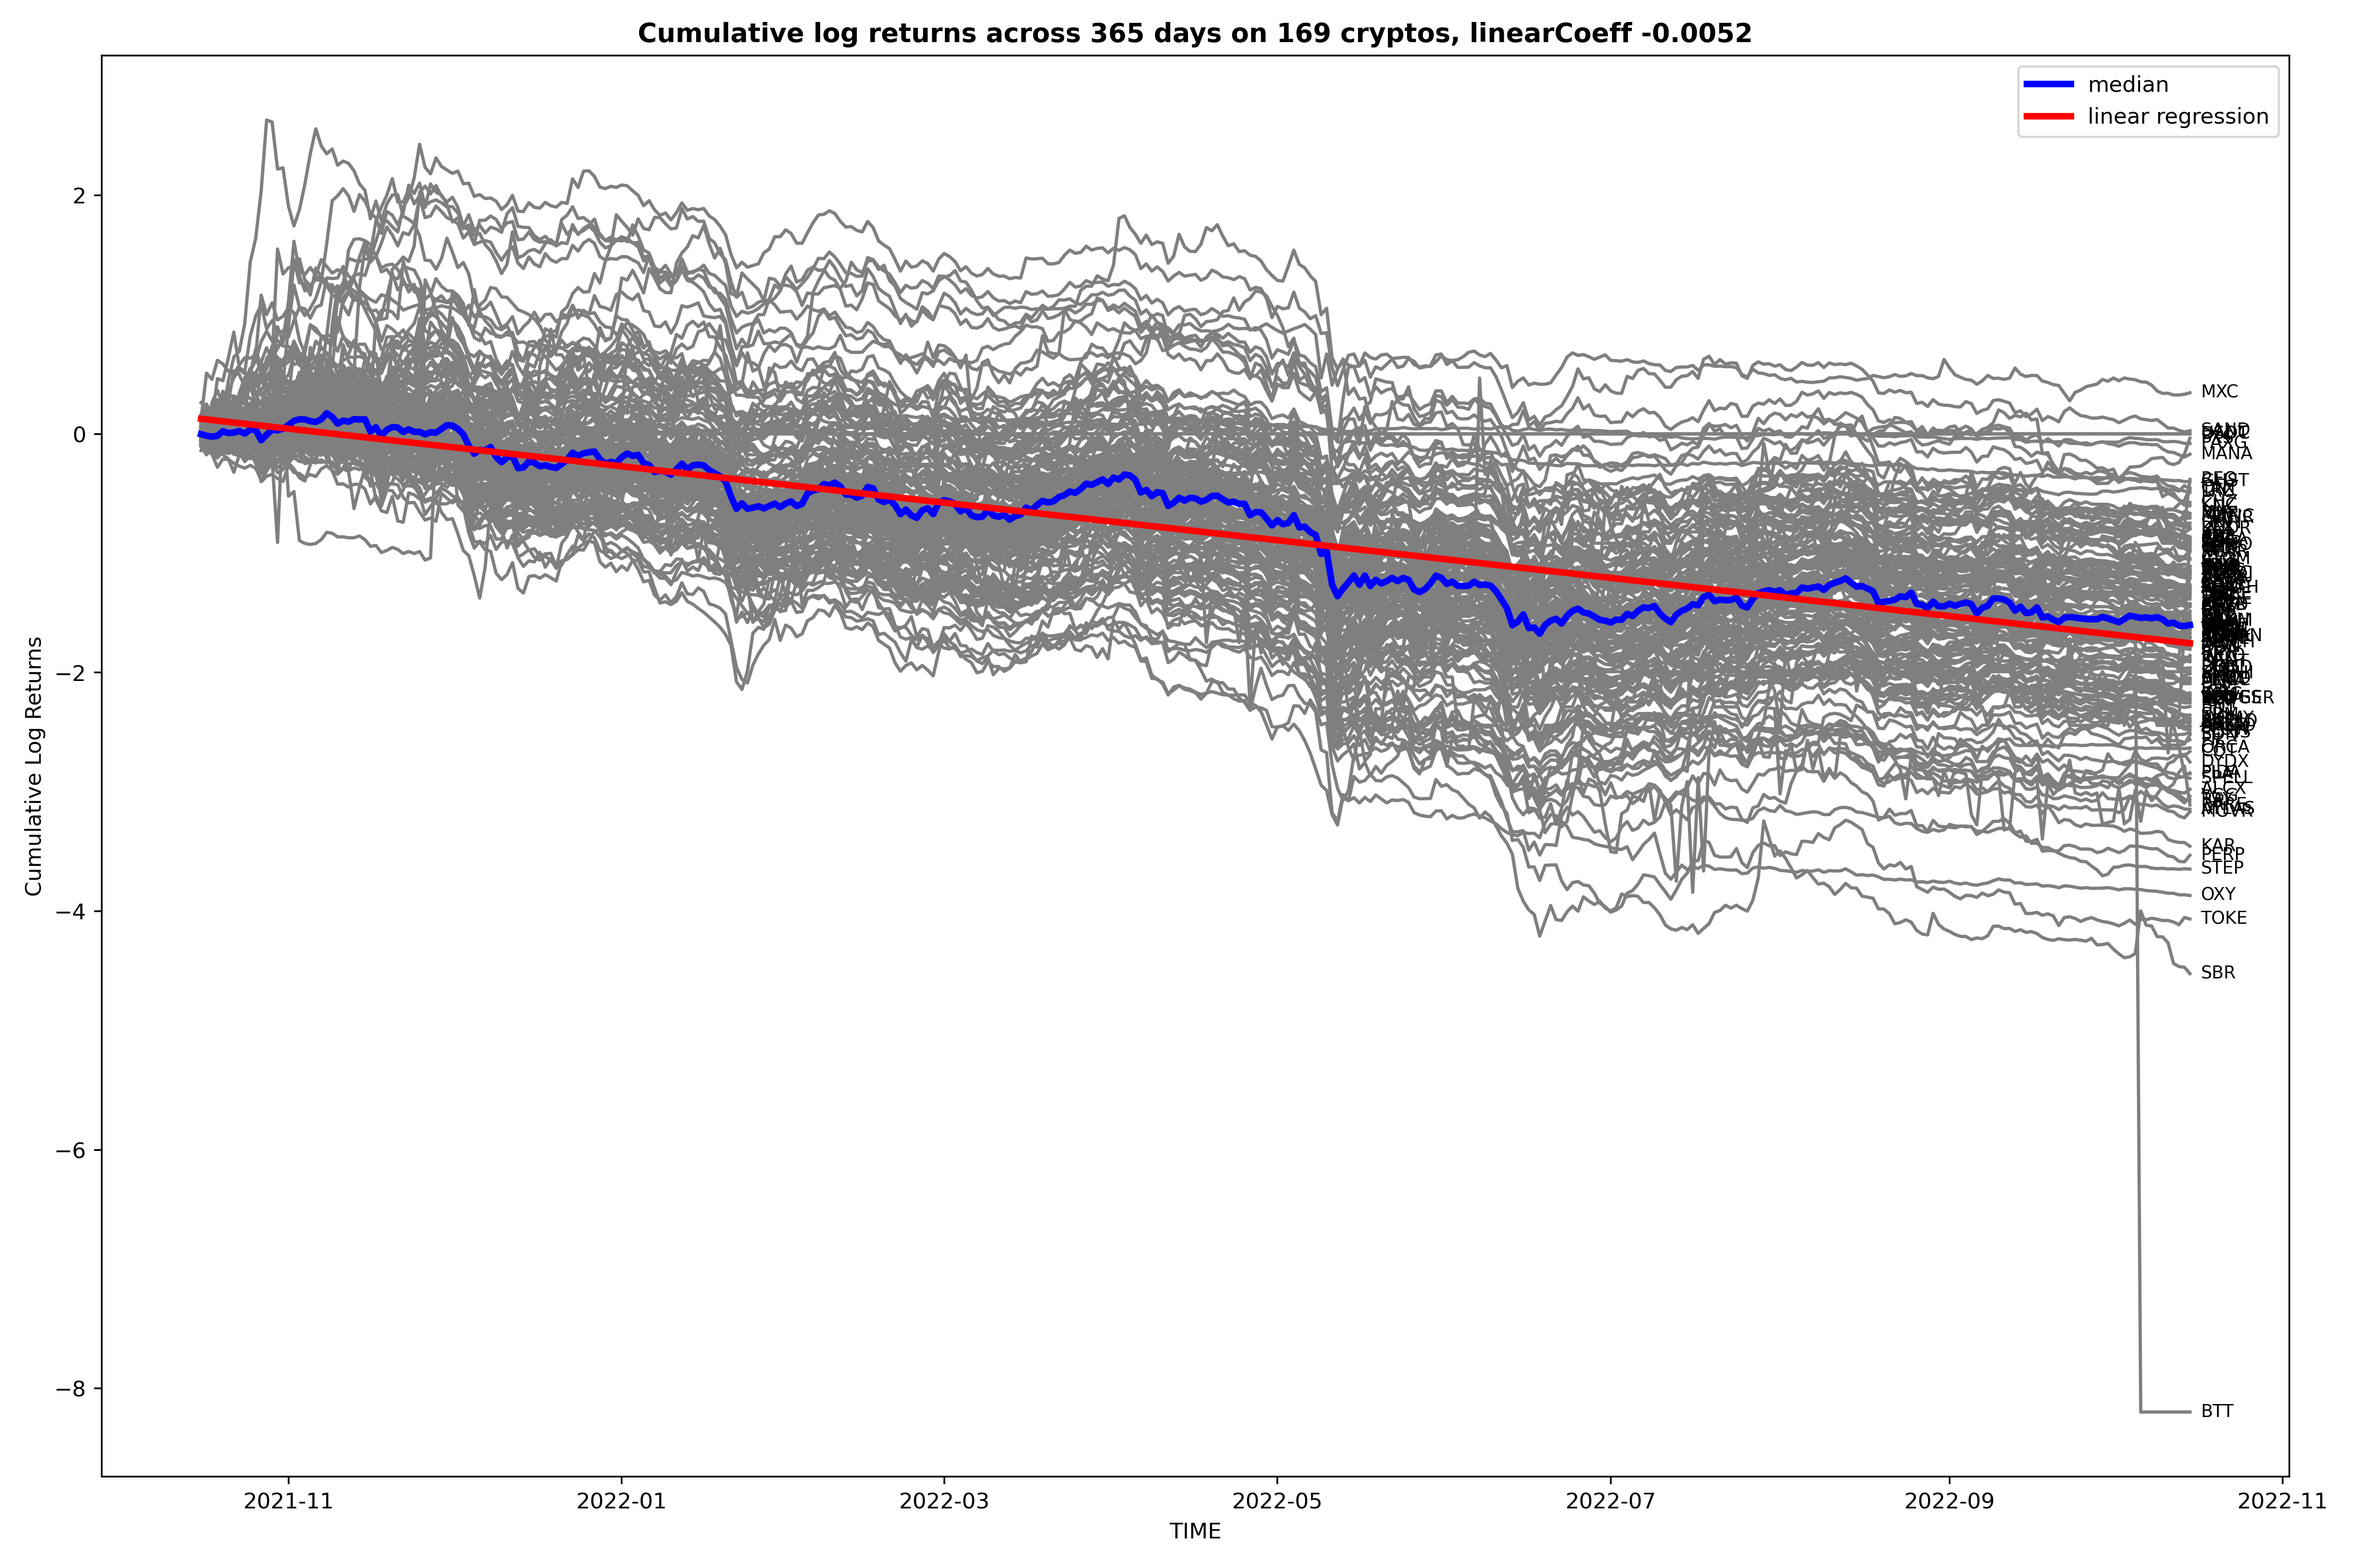
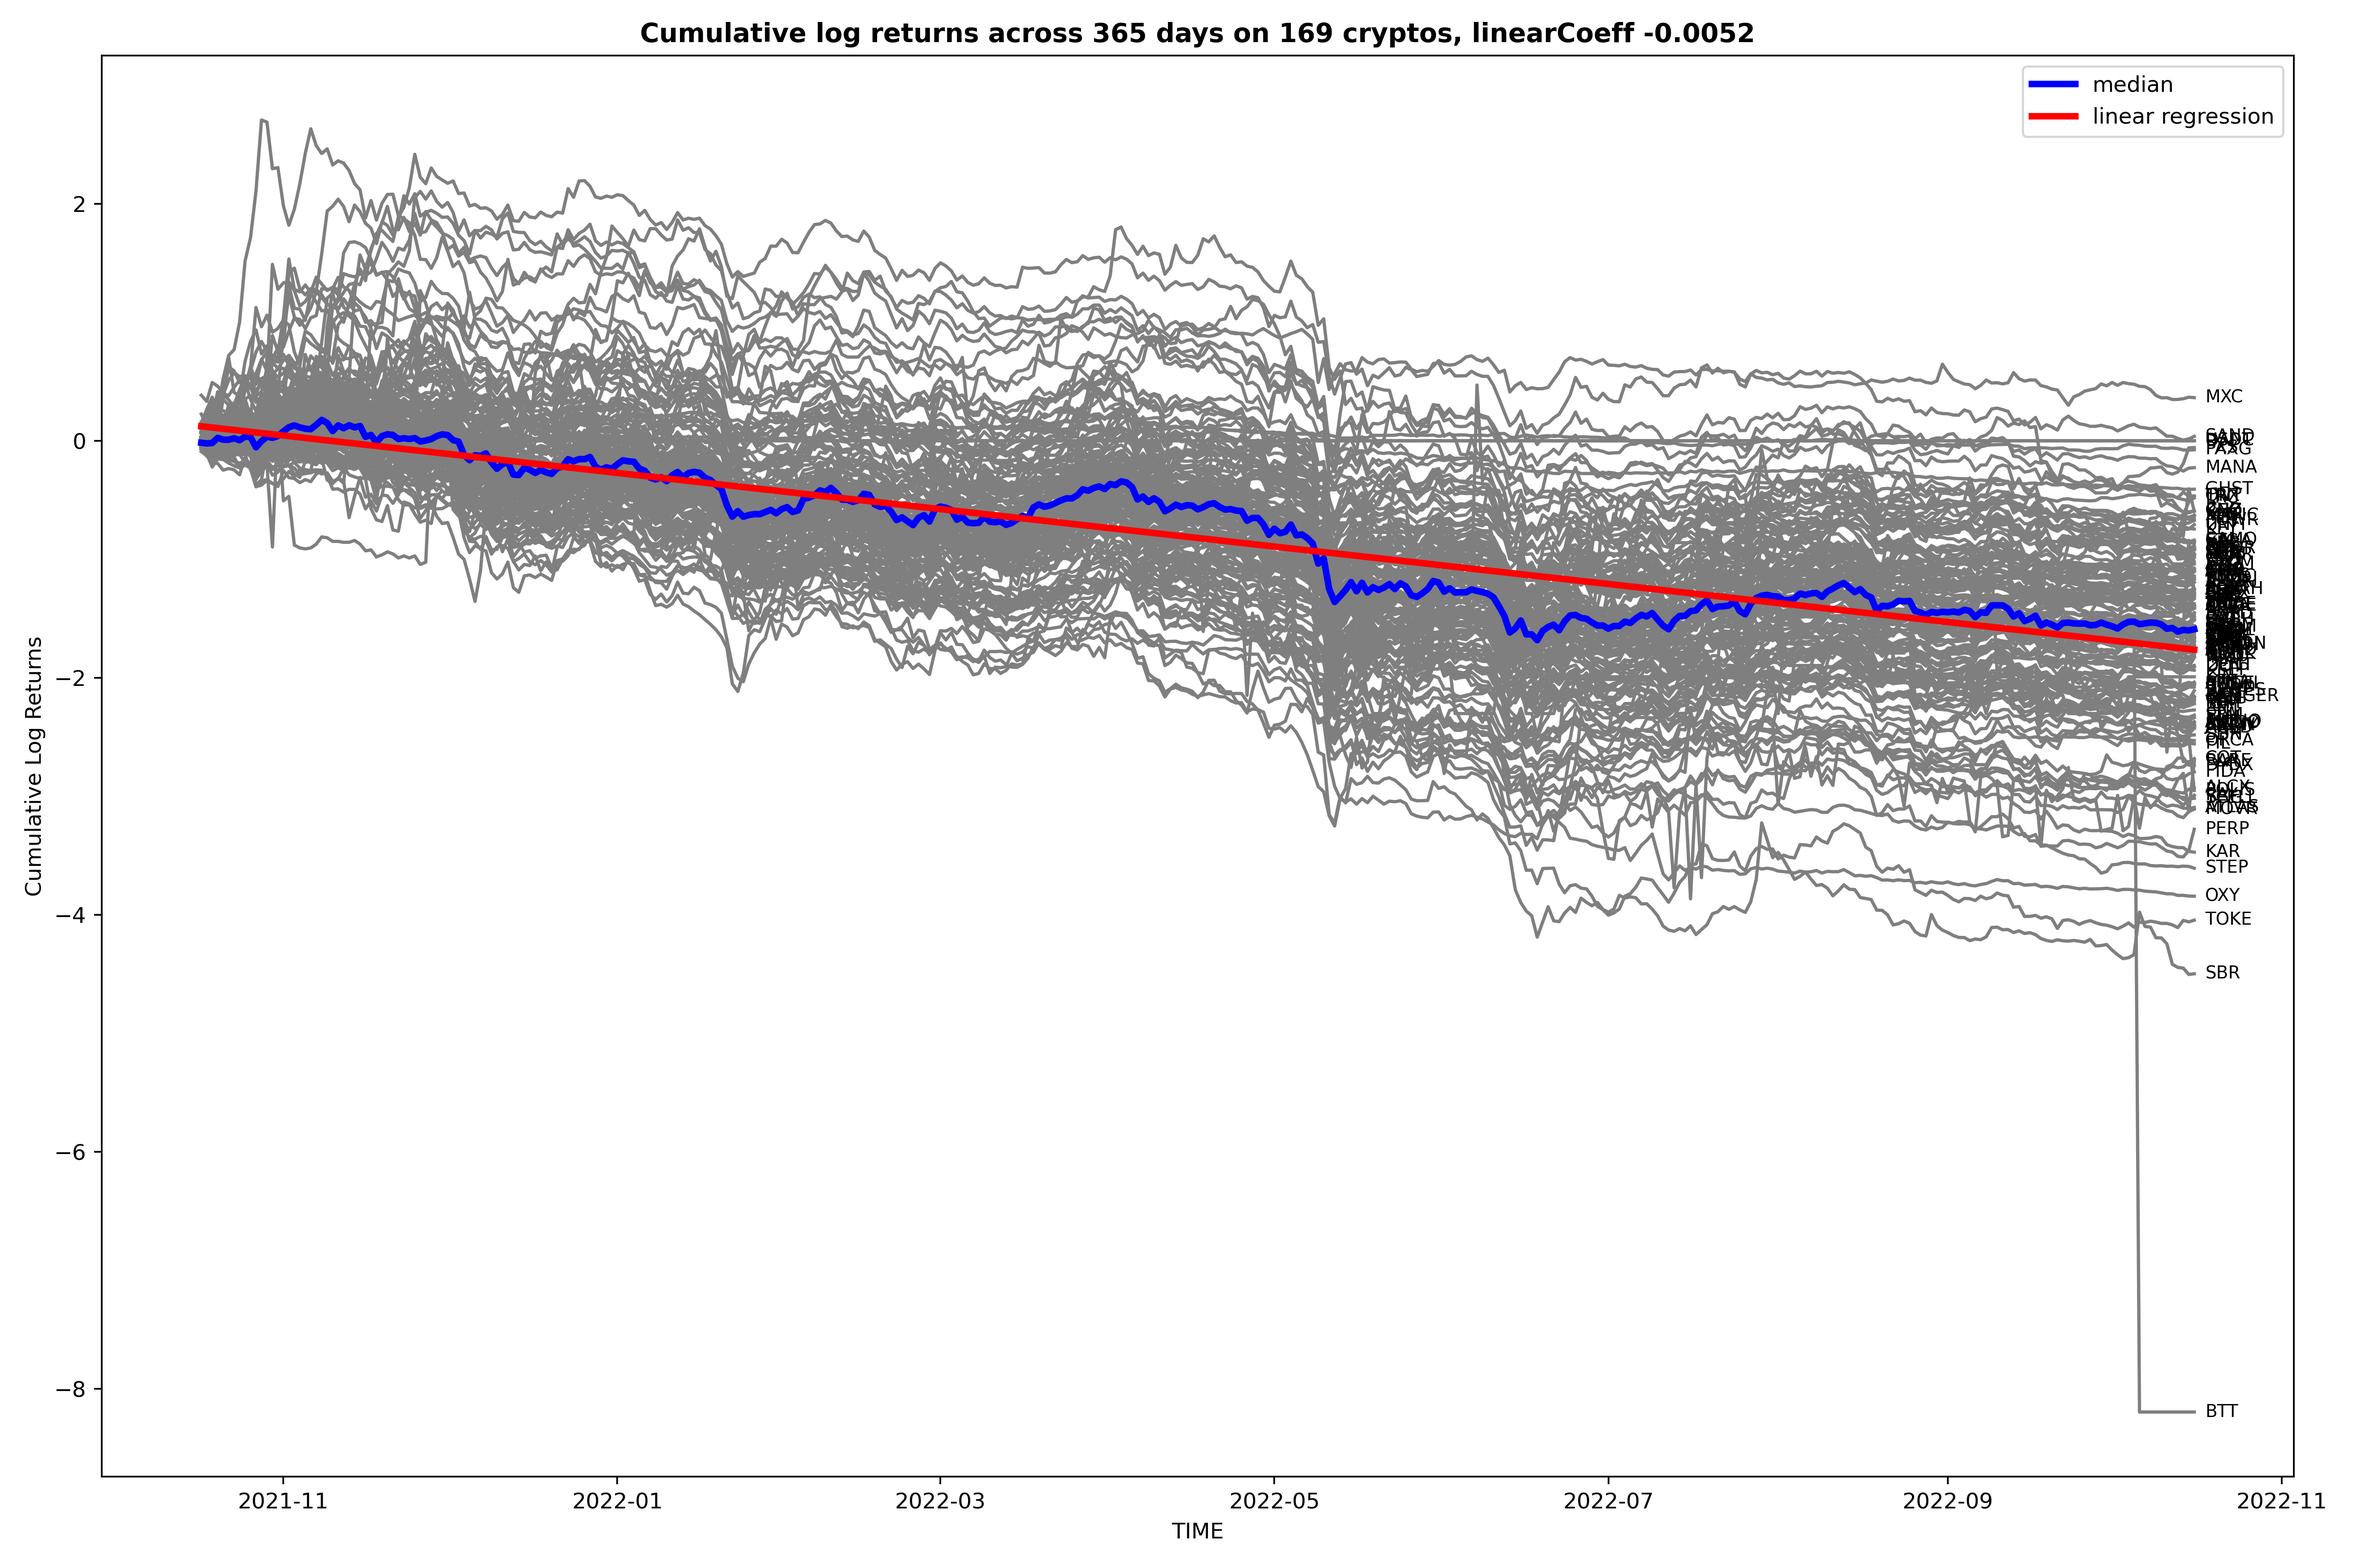
live trading: buy added, finish sell in the morining

diff --git a/technical_analysis.py b/technical_analysis.py
@@ -14,12 +14,12 @@ from numpy import array, zeros, nan, arange, percentile, empty, log, mean
 from time import sleep
 # import argparse
 from os import path, getcwd, listdir, remove, mkdir
-from pandas import DataFrame, read_csv, date_range
+from pandas import DataFrame, read_csv
 # from scipy.stats import pearsonr
 import matplotlib.pyplot as plt
-from os.path import join, exists
+from os.path import join
 import warnings
-# import buy_sell_signals
+from buy_sell_signals import buy_signal_hft
 # from datetime import datetime, timedelta
 # from scipy.signal import savgol_filter
 from tqdm import tqdm
@@ -164,6 +164,7 @@ class technical():
         ax[0].plot(self.data.index, self.data['ewmshort'], 'crimson', label = 'short-128')
         ax[0].plot(self.data.index, self.data['ewmmedium'], 'green', label = 'medium-25')
         ax[0].scatter(self.data.index, self.data['buy'], marker='o', s=120, color = 'g', label = 'buy')
+        ax[0].scatter(self.data.index, self.data['buy_no_condition'], marker='o', s=120, color = 'black', label = 'buy_no_open_trade')
         ax[0].scatter(self.data.index, self.data['sell'], marker='o', s=120, color = 'r', label = 'sell')
         # ax[0].vlines(x=self.data.index[indx],
         #              ymin=min(self.data['close'].values),
@@ -232,6 +233,8 @@ class technical():
     def trade(self):
         self.data['buy'] = empty(len(self.data))
         self.data['buy'].iloc[:] = nan
+        self.data['buy_no_condition'] = empty(len(self.data))
+        self.data['buy_no_condition'].iloc[:] = nan
         self.data['sell'] = empty(len(self.data))
         self.data['sell'].iloc[:] = nan
         open_trade = True
@@ -259,7 +262,8 @@ class technical():
                 (self.coef_variation > 18.75) and 
                 (self.coef_variation < 60.35) #use the values that are calculated at the end
                 ):  
-                    self.buy_for_trading = self.data['close'].iloc[o]
+                    self.buy_for_trading = o
+                    self.data['buy_no_condition'] = self.data['close'].iloc[o]
                     if open_trade == True:
                         self.data['buy'].iloc[o] = self.data['close'].iloc[o]
                         buy_price = self.data['close'].iloc[o]
@@ -278,6 +282,29 @@ class technical():
                 self.data['sell'].iloc[o] = self.data['close'].iloc[o]
                 self.cumlative_gained += ((self.data['close'].iloc[o] - buy_price) / buy_price)*100
                 open_trade = True
+    def live_trading(self,name):
+        if len(self.data) - self.buy_for_trading < 2:
+            print(f'buy {name}')
+            #put a buy function here : ad save the thresh and time? 
+            old_name = name.replace('USD','')
+            ind_cryp_t = self.crypto_list[self.crypto_list['crypto'] == old_name]
+            volume_inst = ind_cryp_t['Order'].values
+            balance = self.kraken.get_account_balance()
+            _, ask_price , _ = buy_signal_hft(name, self.kraken, volume_inst, balance.vol['ZUSD'])
+            while True:
+                self.get_ohlc(name)
+                self.macd()
+                self.RSI()
+                self.aroon_ind()
+                self.moving_averages()
+                self.awesome_indicator()
+                self.half_LR()
+                self.volatility()
+                self.trade()
+                self.plot(name)
+                sleep(SAMPLE_RATE)
+    def check_sell(self):
+        pass
     def run_analysis_pos_crypt(self):
         pos_crypt = self.get_24_above_zero()
         files = glob(join(getcwd(),'technical_analysis','*'))
@@ -296,6 +323,7 @@ class technical():
             self.volatility()
             self.trade()
             self.plot(name)
+            self.live_trading(name)
             save_hist.append(self.coef_variation)
             save_hold_time_temp.append(self.save_time_hold)
             print(f'cumulative gain {round(self.cumlative_gained,4)}% after running {name}')

diff --git a/buy_sell_signals.py b/buy_sell_signals.py
@@ -23,6 +23,7 @@ def kraken_info():
     api.load_key('key.txt')
     kraken = KrakenAPI(api)
     return kraken
+
 def buy_signal_hft(trade_crypt, kraken, volume_inst, account_bal):
     traded = False
     try:
